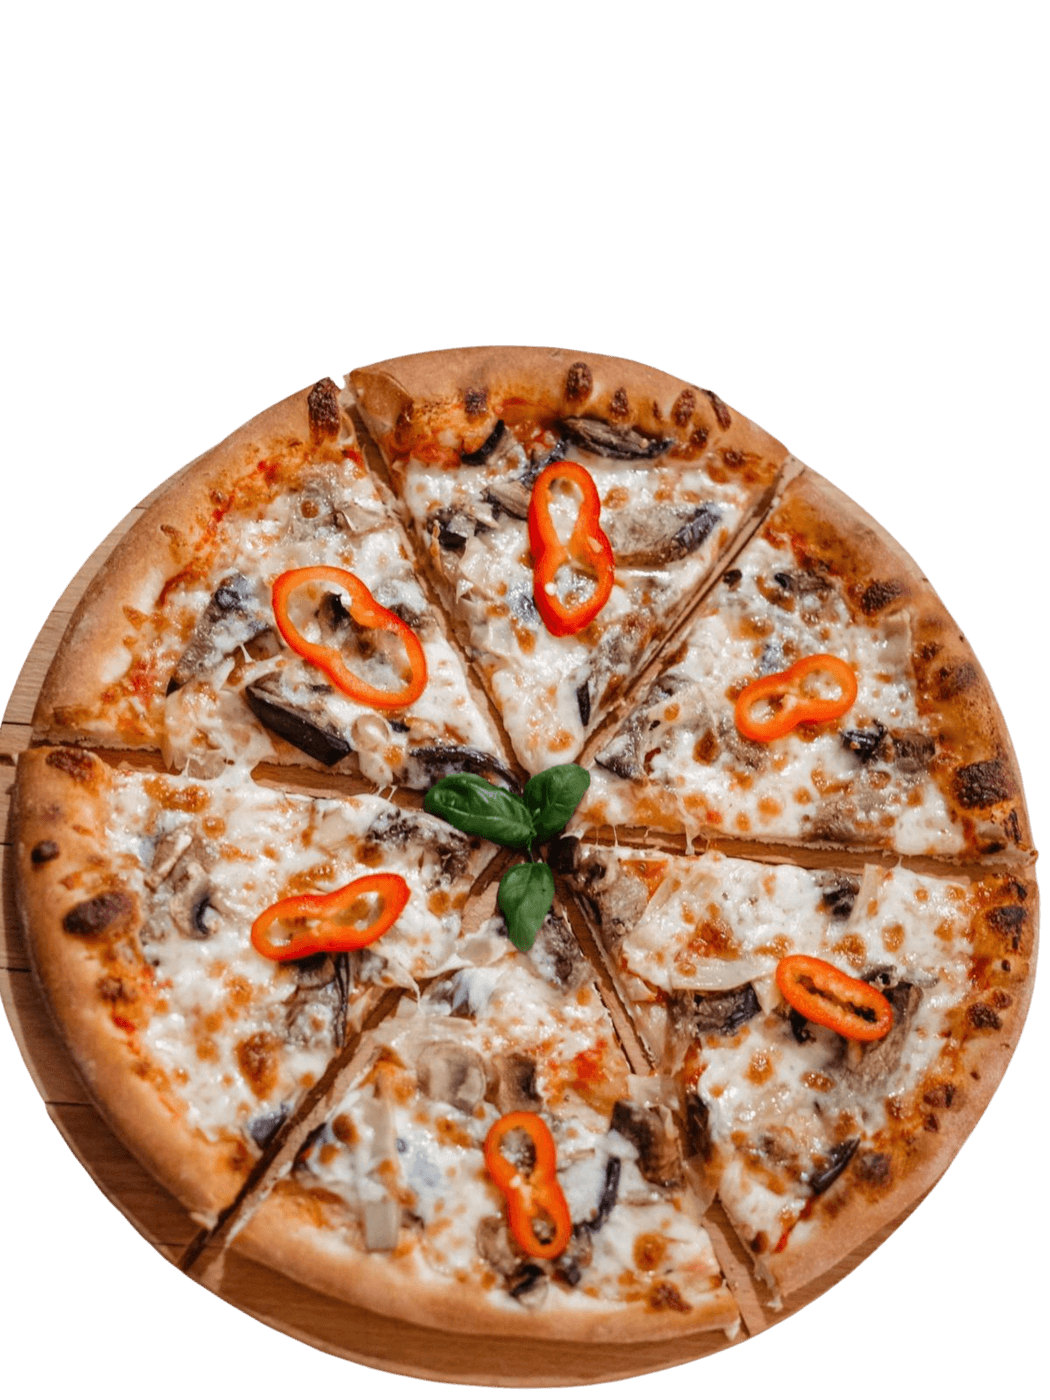
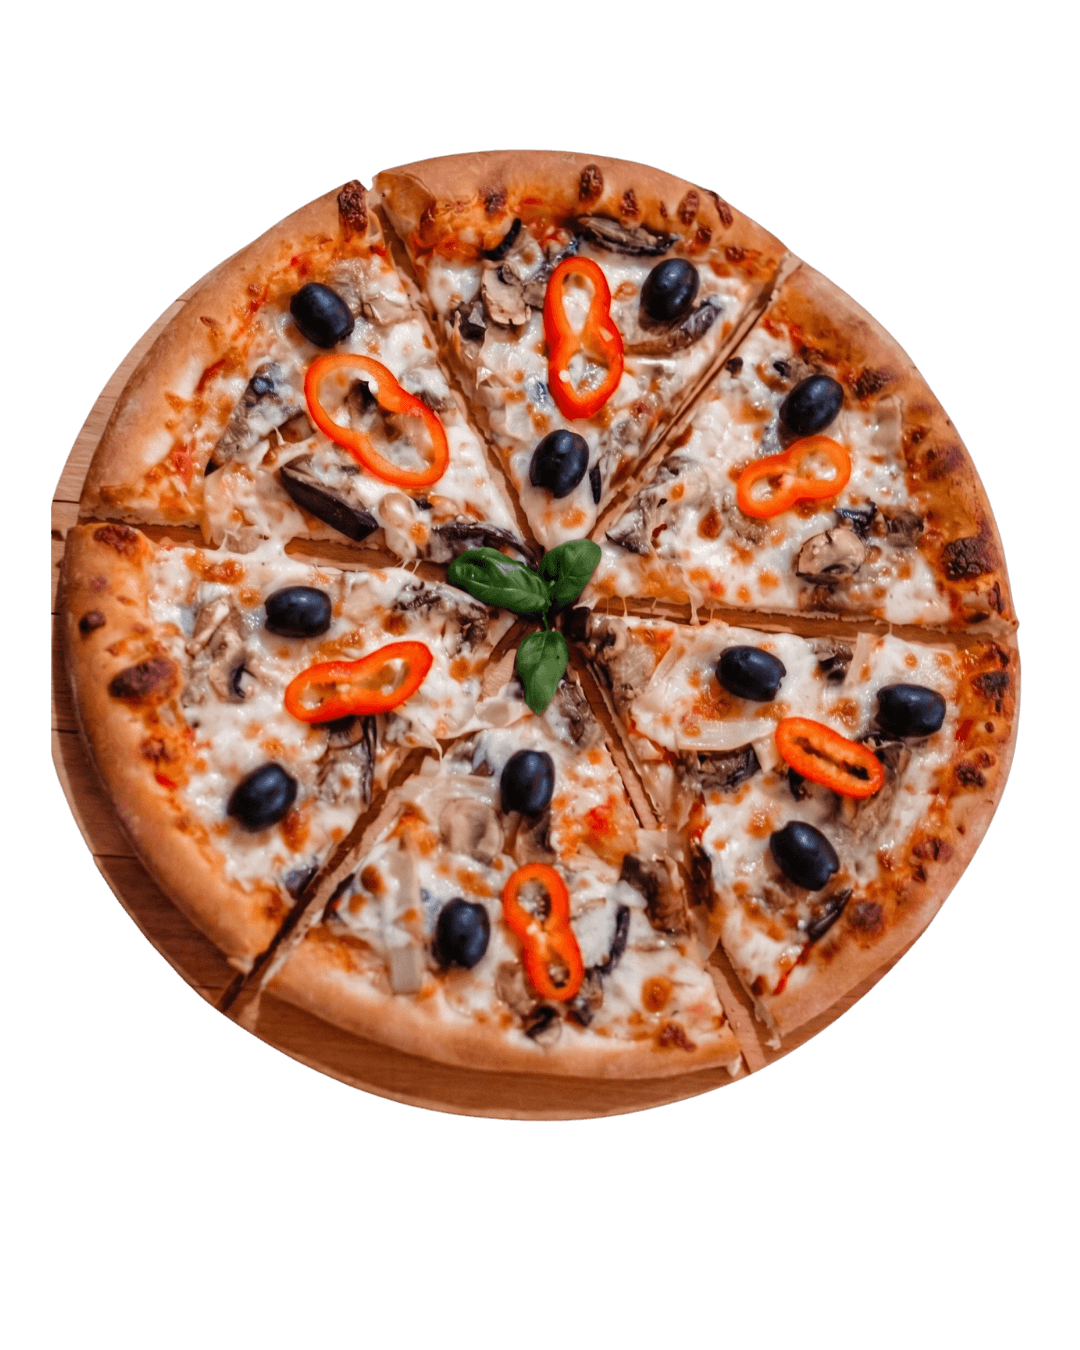
Fix Hot Dog cu Cascaval sizing, update Corvin CTA slogan, image tweaks
- Hot Dog cu Cașcaval now has Simplu/Dublu sizing like other hot dogs
  (15/19 lei, explicit "1 vs 2 frankfurters" wording)
- Made Simplu/Dublu ingredient wording explicit across all double-size
  items (Pittburger, Chicken Schnitzel Burger, Sandwich cu Șuncă,
  Hot Dog) instead of a trailing parenthetical
- Corvin CTA slogan replaced with "Nu gătești azi? Nici nu trebuie,
  gătim noi!"
- "Fast Food" title on Corvin hero no longer tilted
- New Pizza Cosimo and Pizza Tonno photos
- Corvin homepage card height matched to Dacia/Pizzeria (h-52 -> h-72)

diff --git a/pages/corvin/index.tsx b/pages/corvin/index.tsx
@@ -60,7 +60,7 @@ const MENU: MenuItem[] = [
   },
   {
     slug: 'shaorma-farfurie',
-    name: 'Shaorma la Casserolă',
+    name: 'Shaorma la Caserolă',
     nameEn: 'Shawarma in Casserole',
     category: 'shaorma',
     price: '27 lei',
@@ -87,8 +87,8 @@ const MENU: MenuItem[] = [
     sizeMediumLabelEn: 'Single · 260g',
     sizeFamilyLabel: 'Dublu · 330g',
     sizeFamilyLabelEn: 'Double · 330g',
-    ingredients: 'Chiflă, chiftea vită + porc (2 chiftele la Dublu), cartofi prăjiți, maioneză cu varză, ketchup, castraveți murați, condimente.',
-    ingredientsEn: 'Bun, beef + pork patty (2 patties on Double), fries, mayo with cabbage, ketchup, pickles, spices.',
+    ingredients: 'Chiflă, chiftea vită + porc — 1 chiftea la Simplu, 2 chiftele la Dublu, cartofi prăjiți, maioneză cu varză, ketchup, castraveți murați, condimente.',
+    ingredientsEn: 'Bun, beef + pork patty — 1 patty on Single, 2 patties on Double, fries, mayo with cabbage, ketchup, pickles, spices.',
     image: '/images/corvin/pittburger-simplu.jpeg',
     imageScale: 0.8,
   },
@@ -103,8 +103,8 @@ const MENU: MenuItem[] = [
     sizeMediumLabelEn: 'Single · 280g',
     sizeFamilyLabel: 'Dublu · 360g',
     sizeFamilyLabelEn: 'Double · 360g',
-    ingredients: 'Chiflă, șnițel din piept de pui (2 șnițele la Dublu), cartofi prăjiți, sos de usturoi, maioneză cu varză, ketchup, castraveți murați, condimente.',
-    ingredientsEn: 'Bun, chicken breast schnitzel (2 on Double), fries, garlic sauce, mayo with cabbage, ketchup, pickles, spices.',
+    ingredients: 'Chiflă, șnițel din piept de pui — 1 șnițel la Simplu, 2 șnițele la Dublu, cartofi prăjiți, sos de usturoi, maioneză cu varză, ketchup, castraveți murați, condimente.',
+    ingredientsEn: 'Bun, chicken breast schnitzel — 1 schnitzel on Single, 2 on Double, fries, garlic sauce, mayo with cabbage, ketchup, pickles, spices.',
     image: '/images/corvin/burger-snitel-pui.jpeg',
     imageScale: 0.8,
   },
@@ -130,8 +130,8 @@ const MENU: MenuItem[] = [
     sizeMediumLabelEn: 'Single · 220g',
     sizeFamilyLabel: 'Dublu · 260g',
     sizeFamilyLabelEn: 'Double · 260g',
-    ingredients: 'Chiflă, șuncă (2 felii la Dublu), cartofi prăjiți, maioneză cu varză, ketchup, castraveți murați, condimente.',
-    ingredientsEn: 'Bun, ham (2 slices on Double), fries, mayo with cabbage, ketchup, pickles, spices.',
+    ingredients: 'Chiflă, șuncă — 1 felie la Simplu, 2 felii la Dublu, cartofi prăjiți, maioneză cu varză, ketchup, castraveți murați, condimente.',
+    ingredientsEn: 'Bun, ham — 1 slice on Single, 2 slices on Double, fries, mayo with cabbage, ketchup, pickles, spices.',
     image: '/images/corvin/sandwich-sunca.jpeg',
     imageScale: 0.8,
   },
@@ -140,9 +140,14 @@ const MENU: MenuItem[] = [
     name: 'Hot Dog cu Cașcaval',
     nameEn: 'Hot Dog with Cheese',
     category: 'hotdog',
-    price: '15 lei',
-    ingredients: 'Baton, crenvurști, cașcaval, maioneză, ketchup, muștar. 220g',
-    ingredientsEn: 'Baguette, frankfurters, kaskaval cheese, mayo, ketchup, mustard. 220g',
+    priceMedium: '15 lei',
+    priceFamily: '19 lei',
+    sizeMediumLabel: 'Simplu · 220g',
+    sizeMediumLabelEn: 'Single · 220g',
+    sizeFamilyLabel: 'Dublu · 270g',
+    sizeFamilyLabelEn: 'Double · 270g',
+    ingredients: 'Baton, crenvurști — 1 crenvurst la Simplu, 2 crenvurști la Dublu, cașcaval, maioneză, ketchup, muștar.',
+    ingredientsEn: 'Baguette, frankfurters — 1 frankfurter on Single, 2 on Double, kaskaval cheese, mayo, ketchup, mustard.',
     image: '/images/corvin/hotdog-cascaval.jpeg',
     imageScale: 0.8,
   },
@@ -156,8 +161,8 @@ const MENU: MenuItem[] = [
     sizeMediumLabelEn: 'Single · 180g',
     sizeFamilyLabel: 'Dublu · 230g',
     sizeFamilyLabelEn: 'Double · 230g',
-    ingredients: 'Baton, crenvurști (2 crenvurști la Dublu), maioneză, ketchup, muștar.',
-    ingredientsEn: 'Baguette, frankfurters (2 on Double), mayo, ketchup, mustard.',
+    ingredients: 'Baton, crenvurști — 1 crenvurst la Simplu, 2 crenvurști la Dublu, maioneză, ketchup, muștar.',
+    ingredientsEn: 'Baguette, frankfurters — 1 frankfurter on Single, 2 on Double, mayo, ketchup, mustard.',
     image: '/images/corvin/hotdog.jpeg',
     imageScale: 0.8,
   },
@@ -316,7 +321,7 @@ const CorvinPage: NextPage<Props> = ({ images }) => {
                 </p>
 
                 <h1 className="font-playfair font-bold text-white leading-[0.9] mb-4" style={{ fontSize: 'clamp(56px, 9vw, 108px)' }}>
-                  <span className="inline-block italic text-[#D32F2F] -rotate-2">Fast Food</span>
+                  <span className="inline-block italic text-[#D32F2F]">Fast Food</span>
                   <br />
                   Cosimo
                 </h1>
@@ -533,10 +538,13 @@ const CorvinPage: NextPage<Props> = ({ images }) => {
           />
           <div className="relative z-10 max-w-3xl mx-auto px-4 text-center">
             <h2 className="font-playfair text-3xl md:text-4xl font-bold text-white mb-3">
-              {t('Ți-e foame? Sunăm noi!', "Hungry? We're a call away!")} 📞
+              {t('Nu gătești azi? Nici nu trebuie, gătim noi!', "Not cooking today? No need — we've got it!")} 🍔
             </h2>
             <p className="text-[#c9b99a] mb-8">
-              {t('Comandă telefonic sau ridică direct de la Fast Food Cosimo Bd. Corvin', 'Order by phone or pick up directly at Cosimo Fast Food Bd. Corvin')}
+              {t(
+                'Comandă pe Glovo cu livrare, sau sună-ne telefonic — comenzile telefonice se ridică doar din locație.',
+                'Order on Glovo for delivery, or call us by phone — phone orders are pickup-only from our location.'
+              )}
             </p>
             <div className="flex flex-col sm:flex-row gap-4 justify-center">
               <a href="tel:[phone redacted]"

diff --git a/pages/index.tsx b/pages/index.tsx
@@ -264,7 +264,7 @@ const Home: NextPage<Props> = ({ daciaHero, corvinHero, pizzerieHero }) => {
 
               {/* CARD 2 — Corvin */}
               <div className="location-card bg-[#FFF8F0] rounded-3xl overflow-hidden shadow-md border border-[#e8d5b7]">
-                <div className="relative h-52 overflow-hidden">
+                <div className="relative h-72 overflow-hidden">
                   {corvinHero ? (
                     <Image src={corvinHero} alt="Fast Food Cosimo Bd. Corvin" fill className="object-cover" style={{ objectPosition: '50% 20%' }} />
                   ) : (